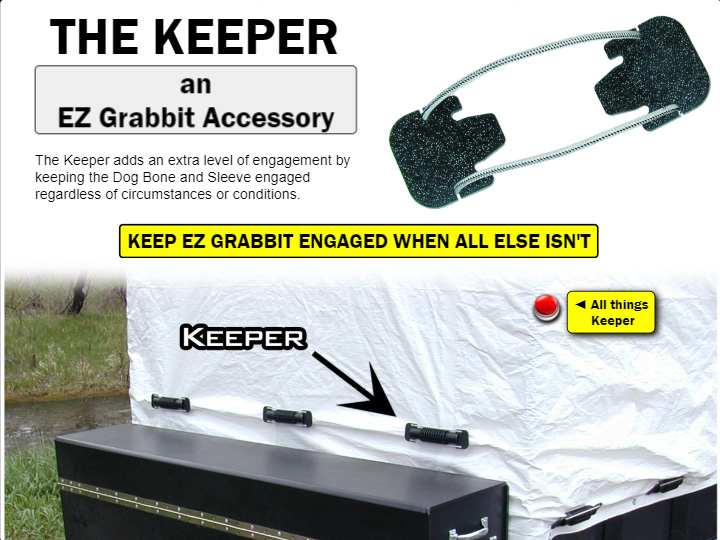
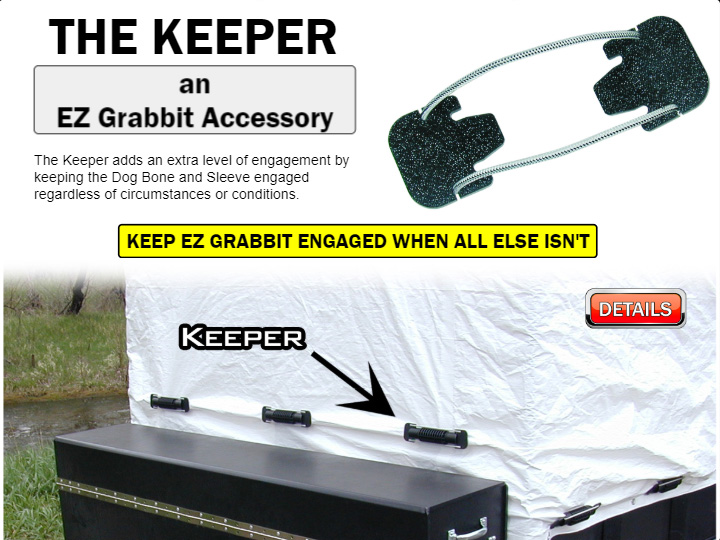
Added/edited user content

diff --git a/components/components04_07/components04_07.js b/components/components04_07/components04_07.js
@@ -20,7 +20,7 @@ angular.module('viewNav')
             
             // AR Response Section 3
             self04.rs3positiontop1 = "top:" + ((0.09259)*(viewWidth)-8.33333) + "px";       // AR_100_25
-            self04.rs3positionleft1 = "left:" + ((0.01235)*(viewWidth)+65.55556) + "%";     // AR_70_35
+            self04.rs3positionleft1 = "left:" + ((0.01235)*(viewWidth)+65.55556) + "%";     // AR_80_70
             self04.rs3width3 = "width:" + ((0.09877)*(viewWidth)+34.44444) + "px";          // AR_150_70         
             self04.rs3positiontop2 = "top:" + ((0.38272)*(viewWidth)+2.22222) + "px";       // AR_450_140      
             self04.rs3fontsize5 = "font-size:" + ((0.00370)*(viewWidth)-0.33333) + "em";    // AR_4_1
@@ -40,22 +40,20 @@ angular.module('viewNav')
 
             var self05 = this; 
             
-            self05.width3 = "width:" + ((0.02963)*(viewWidth)+15.33333) + "px";
-             
-            self05.margintop1 = "margin-top:" + ((0.01235)*(viewWidth)-4.44444) + "px";
-            self05.margintop2 = "margin-top:" + ((0.01235)*(viewWidth)+0.55556) + "px";
+            // AR Response Section 1 
+            self05.rs1margintop1 = "margin-top:" + ((0.01235)*(viewWidth)-4.44444) + "px";
+            self05.rs1margintop2 = "margin-top:" + ((0.01235)*(viewWidth)+0.55556) + "px";
+            self05.rs1fontsize1 = "font-size:" + ((0.00241)*(viewWidth)-0.06667) + "em";
             
-            self05.positiontop1 = "top:" + ((0.04938)*(viewWidth)+2.22222) + "px";
-            self05.positiontop2 = "top:" + ((0.43210)*(viewWidth)-5.55556) + "px";          //div4
-
-            self05.fontsize1 = "font-size:" + ((0.00241)*(viewWidth)-0.06667) + "em";
-            self05.fontsize2 = "font-size:" + ((0.00265)*(viewWidth)-0.10556) + "em";
-            self05.fontsize4 = "font-size:" + ((0.00068)*(viewWidth)+0.45556) + "em";
-            self05.fontsize5 = "font-size:" + ((0.00370)*(viewWidth)-0.33333) + "em";
+            // AR Response Section 2 
+            self05.rs2fontsize2 = "font-size:" + ((0.00265)*(viewWidth)-0.10556) + "em";
             
-            self05.positionleft1 = "left:" + ((0.02840)*(viewWidth)+46.77778)    + "%";
-            
-            //self05.padding1 = "padding:" + ((0.00617)*(viewWidth)+2.77778) + "px " + ((0.02099)*(viewWidth)+0.44444) + "px";
+            // AR Response Section 3 
+            self05.rs3positiontop1 = "top:" + ((0.04938)*(viewWidth)+2.22222) + "px";
+            self05.rs3positiontop2 = "top:" + ((0.43210)*(viewWidth)-5.55556) + "px";         
+            self05.rs3positionleft1 = "left:" + ((0.01235)*(viewWidth)+70.55556)    + "%";
+            self05.rs3width3 = "width:" + ((0.09877)*(viewWidth)+34.44444) + "px";          // AR_150_70 
+            self05.rs3fontsize5 = "font-size:" + ((0.00370)*(viewWidth)-0.33333) + "em"; 
             
             compFactory.logView(05);
         }]
@@ -72,26 +70,22 @@ angular.module('viewNav')
 
             var self06 = this; 
             
-            self06.width1 = "width:" + ((-0.01235)*(viewWidth)+64.44444) + "%";
-            self06.width2 = "width:" + ((0.01235)*(viewWidth)+35.55556) + "%";
-            self06.width3 = "width:" + ((0.02963)*(viewWidth)+15.33333) + "px";
+            // AR Response Section 1
+            self06.rs1width1 = "width:" + ((-0.01235)*(viewWidth)+64.44444) + "%";
+            self06.rs1fontsize1 = "font-size:" + ((0.00062)*(viewWidth)+0.52778) + "em";
+            self06.rs1fontsize3 = "font-size:" + ((0.00272)*(viewWidth)-0.17778) + "em";
+            self06.rs1width2 = "width:" + ((0.01235)*(viewWidth)+35.55556) + "%";
+            self06.rs1margintop1 = "margin-top:" + ((0.01235)*(viewWidth)-4.44444) + "px";
+            
+            // AR Response Section 2
+            self06.rs2fontsize2 = "font-size:" + ((0.00154)*(viewWidth)+0.19444) + "em";
+            
+            // AR Response Section 3
+            self06.rs3positiontop1 = "top:" + ((0.04938)*(viewWidth)-7.77778) + "px";
+            self06.rs3positionleft1 = "left:" + ((0.01235)*(viewWidth)+70.55556)    + "%";  // AR_85_75
+            self06.rs3width3 = "width:" + ((0.09877)*(viewWidth)+34.44444) + "px";          // AR_150_70
+            self06.rs3fontsize4 = "font-size:" + ((0.00068)*(viewWidth)+0.45556) + "em";
              
-            self06.margintop1 = "margin-top:" + ((0.01235)*(viewWidth)-4.44444) + "px";
-            self06.margintop2 = "margin-top:" + ((0.01235)*(viewWidth)+0.55556) + "px";
-            
-            self06.positiontop1 = "top:" + ((0.04938)*(viewWidth)-7.77778) + "px";
-            self06.positiontop2 = "top:" + ((0.43210)*(viewWidth)-5.55556) + "px";          //div4
-
-            self06.fontsize1 = "font-size:" + ((0.00062)*(viewWidth)+0.52778) + "em";
-            self06.fontsize2 = "font-size:" + ((0.00154)*(viewWidth)+0.19444) + "em";
-            self06.fontsize3 = "font-size:" + ((0.00272)*(viewWidth)-0.17778) + "em";
-            
-            
-            self06.fontsize4 = "font-size:" + ((0.00068)*(viewWidth)+0.45556) + "em";
-            self06.fontsize5 = "font-size:" + ((0.00370)*(viewWidth)-0.33333) + "em";
-            
-            self06.positionleft1 = "left:" + ((0.02469)*(viewWidth)+51.11111)    + "%";
-            
             compFactory.logView(06);
         }]
     })

diff --git a/components/components04_07/tmpl_06/viewTmpl_06.html b/components/components04_07/tmpl_06/viewTmpl_06.html
@@ -24,12 +24,13 @@ font-family: 'Franklin Gothic Medium', 'Franklin Gothic', 'ITC Franklin Gothic',
 <!--************************************************************************************************************************************************-->
 <div style="text-align:center;">    
    
+<!-- AR Response Section 1 ************************************************************************************************************************************************-->
     <table style="width:100%">
         <tr>
-            <td style="{{$ctrl.width1}}; vertical-align:top;">
+            <td style="{{$ctrl.rs1width1}}; vertical-align:top;">
                 <div    class="fontFam"
                         style=" width:100%;
-                                {{$ctrl.fontsize3}};
+                                {{$ctrl.rs1fontsize3}};
                                 ">
                     <span style="font-size:1.75em">THE KEEPER</span><br>
                     <div style="position:relative; 
@@ -42,7 +43,7 @@ font-family: 'Franklin Gothic Medium', 'Franklin Gothic', 'ITC Franklin Gothic',
                 </div>    
                 <div    id="div1" 
                         style="font-family: 'Arial Rounded MT Bold', 'Helvetica Rounded', Arial, sans-serif; 
-                               {{$ctrl.fontsize1}}; 
+                               {{$ctrl.rs1fontsize1}}; 
                                color:black; 
                                text-align:left;
                                width:85%;
@@ -53,19 +54,20 @@ font-family: 'Franklin Gothic Medium', 'Franklin Gothic', 'ITC Franklin Gothic',
 
                 </div>
             </td>
-            <td style="{{$ctrl.width2}};">
+            <td style="{{$ctrl.rs1width2}};">
                 <img    src="components/components04_07/tmpl_06/ttd-vn-kpr-device-presentation1-1080x660.jpg" 
                         alt="EZ Adjust Device." 
                         title="EZ Adjust Device" 
                         style=" width:100%; 
-                                {{$ctrl.margintop1}};"> 
+                                {{$ctrl.rs1margintop1}};"> 
             </td>
         </tr>
     </table>
-<!--************************************************************************************************************************************************--> 
+
+<!-- AR Response Section 2 ************************************************************************************************************************************************-->
     <div id="div2" 
          style="font-family: 'Franklin Gothic Medium', 'Franklin Gothic', 'ITC Franklin Gothic', Arial, sans-serif; 
-                {{$ctrl.fontsize2}};
+                {{$ctrl.rs2fontsize2}};
                 display:inline-block;
                 margin-top:7px;
                 color:black;
@@ -76,37 +78,19 @@ font-family: 'Franklin Gothic Medium', 'Franklin Gothic', 'ITC Franklin Gothic',
                 ">
         KEEP EZ GRABBIT ENGAGED WHEN ALL ELSE ISN'T
     </div>
-<!--************************************************************************************************************************************************-->
     <br>
+    
+<!-- AR Response Section 3 ************************************************************************************************************************************************-->
     <div style="position:relative;">
         
-        <table style="  position:absolute; 
-                        {{$ctrl.positiontop1}}; 
-                        {{$ctrl.positionleft1}}; 
+        <div style="  position:absolute; 
+                        {{$ctrl.rs3positiontop1}}; 
+                        {{$ctrl.rs3positionleft1}}; 
                         z-index:2;">
-            <tr>
-                <td style="text-align:right; vertical-align:top;">
                     <a href="https://www.tarptiedown.com"> 
-                        <img src="https:/tarptiedown.com/resources/ttd-vn-button2-600x600.png" alt="button" style="{{$ctrl.width3}};">
+                        <img src="https:/tarptiedown.com/resources/ttd-vn-button3-300x120.png" alt="button" style="{{$ctrl.rs3width3}};">
                     </a>
-                </td>
-                <td class="fontFam"
-                    style=" vertical-align:middle; 
-                            text-align:left; 
-                            ">
-                    <div style="background-color:yellow;
-                                border:1px solid black;
-                                padding:5px 7px; 
-                                {{$ctrl.fontsize4}}; 
-                                border-radius:7px;
-                                margin-bottom:0px;
-                                box-shadow:3px 3px 13px black;
-                                z-index:2;">
-                        &#9668; All things<br>&nbsp;&nbsp;&nbsp;&nbsp;&nbsp;Keeper
-                    </div>
-                </td>
-            </tr>
-        </table>
+        </div>
         
         <img    src="components/components04_07/tmpl_06/ttd-vn-kpr-app1-1200x1050.jpg" 
                 alt="Keeper Application" 

diff --git a/components/components04_07/tmpl_05/viewTmpl_05.html b/components/components04_07/tmpl_05/viewTmpl_05.html
@@ -22,6 +22,7 @@ font-family: 'Franklin Gothic Medium', 'Franklin Gothic', 'ITC Franklin Gothic',
 
 </style>
 
+<!-- AR Response Section 1 ************************************************************************************************************************************************-->
 <div style="text-align:center;">    
    
     <table style="width:100%">
@@ -31,10 +32,10 @@ font-family: 'Franklin Gothic Medium', 'Franklin Gothic', 'ITC Franklin Gothic',
                         alt="EZ Adjust Logo"
                         title="EZ Adjust Logo"
                         style=" width:100%;
-                                {{$ctrl.margintop2}};">
+                                {{$ctrl.rs1margintop2}};">
                 <div    id="div1" 
                         style="font-family: 'Arial Rounded MT Bold', 'Helvetica Rounded', Arial, sans-serif; 
-                               {{$ctrl.fontsize1}}; 
+                               {{$ctrl.rs1fontsize1}}; 
                                /*font-size:3em;*/
                                color:black; 
                                line-height:.95em;
@@ -50,14 +51,15 @@ font-family: 'Franklin Gothic Medium', 'Franklin Gothic', 'ITC Franklin Gothic',
                         alt="EZ Adjust Device." 
                         title="EZ Adjust Device" 
                         style=" width:100%; 
-                                {{$ctrl.margintop1}};"> 
+                                {{$ctrl.rs1margintop1}};"> 
             </td>
         </tr>
     </table>
- 
+
+<!-- AR Response Section 2 ************************************************************************************************************************************************-->
     <div id="div2" 
          style="font-family: 'Franklin Gothic Medium', 'Franklin Gothic', 'ITC Franklin Gothic', Arial, sans-serif; 
-                {{$ctrl.fontsize2}};  
+                {{$ctrl.rs2fontsize2}};  
                 display:inline-block;
                 margin-top:7px;
                 color:black;
@@ -68,40 +70,28 @@ font-family: 'Franklin Gothic Medium', 'Franklin Gothic', 'ITC Franklin Gothic',
                 ">
         FOR ALL TYPES OF BAGS
     </div>
-   
+  
+
+<!-- AR Response Section 3 ************************************************************************************************************************************************-->
     <br>
     <div style="position:relative;">
         
-        <table style=" position:absolute; {{$ctrl.positiontop1}}; {{$ctrl.positionleft1}}; z-index:2;">
-            <tr>
-                <td style="text-align:right; vertical-align:top;">
+        <div style="position:absolute; 
+                    {{$ctrl.rs3positiontop1}}; 
+                    {{$ctrl.rs3positionleft1}};    /*  */
+                    /*left:85%;*/
+                    z-index:2;">
                     <a href="https://www.tarptiedown.com"> 
-                        <img src="https:/tarptiedown.com/resources/ttd-vn-button2-600x600.png" alt="button" style="{{$ctrl.width3}};">
+                        <img src="https:/tarptiedown.com/resources/ttd-vn-button3-300x120.png" alt="button" style="{{$ctrl.rs3width3}};">
                     </a>
-                </td>
-                <td class="fontFam"
-                    style=" vertical-align:middle; 
-                            text-align:left; 
-                            ">
-                    <div style="background-color:yellow;
-                                border:1px solid black;
-                                padding:5px 7px; 
-                                {{$ctrl.fontsize4}}; 
-                                border-radius:7px;
-                                margin-bottom:0px;
-                                box-shadow:3px 3px 13px black;">
-                        &#9668; For all things<br>&nbsp;&nbsp;&nbsp;&nbsp;&nbsp;Bag Grabbit
-                    </div>
-                </td>
-            </tr>
-        </table>
+        </div>
         <div id="div4" 
              class="textStyle1" 
              style="position:absolute; 
-                    {{$ctrl.positiontop2}}; 
+                    {{$ctrl.rs3positiontop2}}; 
                     /*top:150px;*/
                     left:5%; 
-                    {{$ctrl.fontsize5}}; 
+                    {{$ctrl.rs3fontsize5}}; 
                     /*font-size:1.0em;*/
                     text-align:left; 
                     z-index:2;">

diff --git a/components/components08_11/tmpl_08/viewTmpl_08.html b/components/components08_11/tmpl_08/viewTmpl_08.html
@@ -104,7 +104,7 @@ font-family: 'Franklin Gothic Medium', 'Franklin Gothic', 'ITC Franklin Gothic',
             <tr>
                 <td style="text-align:right; vertical-align:top;">
                     <a href="https://www.tarptiedown.com"> 
-                        <img src="https:/tarptiedown.com/resources/ttd-vn-button3-200x120.jpg"
+                        <img src="https:/tarptiedown.com/resources/ttd-vn-button3-300x120.png"
                              alt="button" 
                              title="Tent pole sizes, uses, elastic cord, prices, etc."
                              style="{{$ctrl.rs3width3}};">  <!-- AR_150_70 -->

diff --git a/controller-client.js b/controller-client.js
@@ -206,7 +206,7 @@ angular.module('viewNav')
 
 //***********************************************************************************************************************************************************            
 // $state.go('some-view') loads the desired view as the default view upon load          
-        $state.go('view05');
+        $state.go('view06');
         
 //***********************************************************************************************************************************************************    
 //  Responsive section for the Hyper Menu and Thumbnail section     
